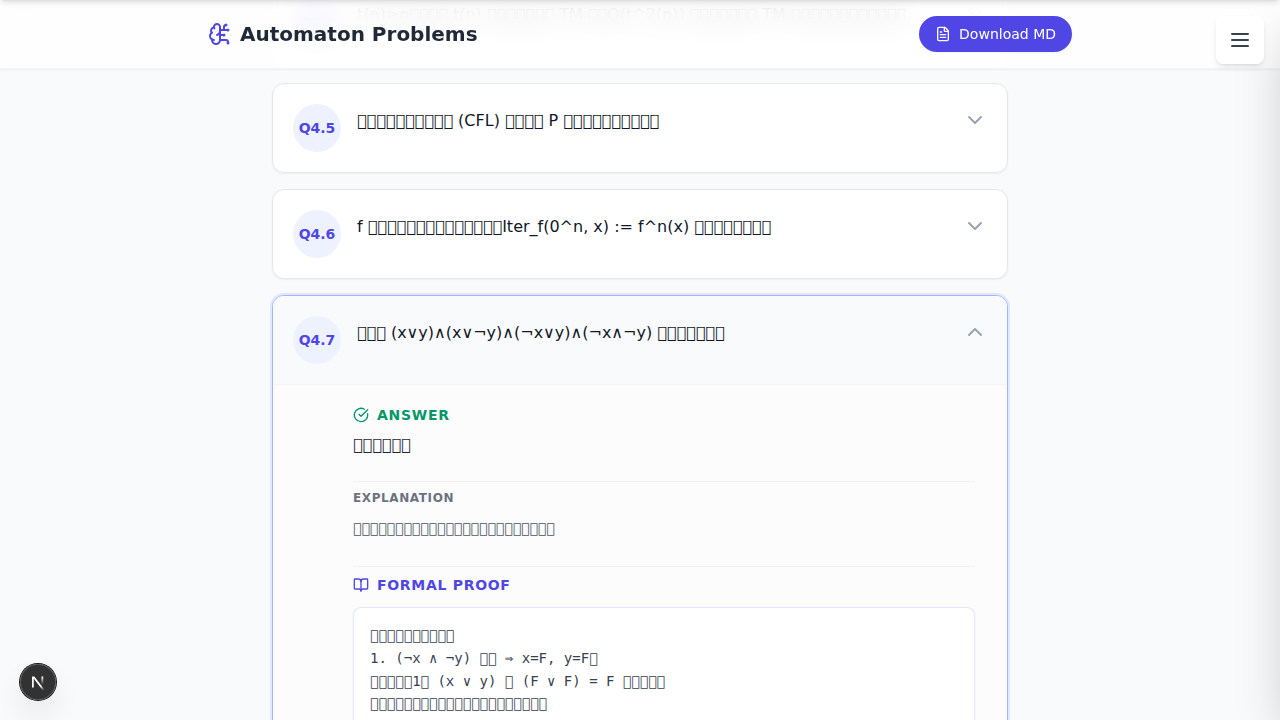
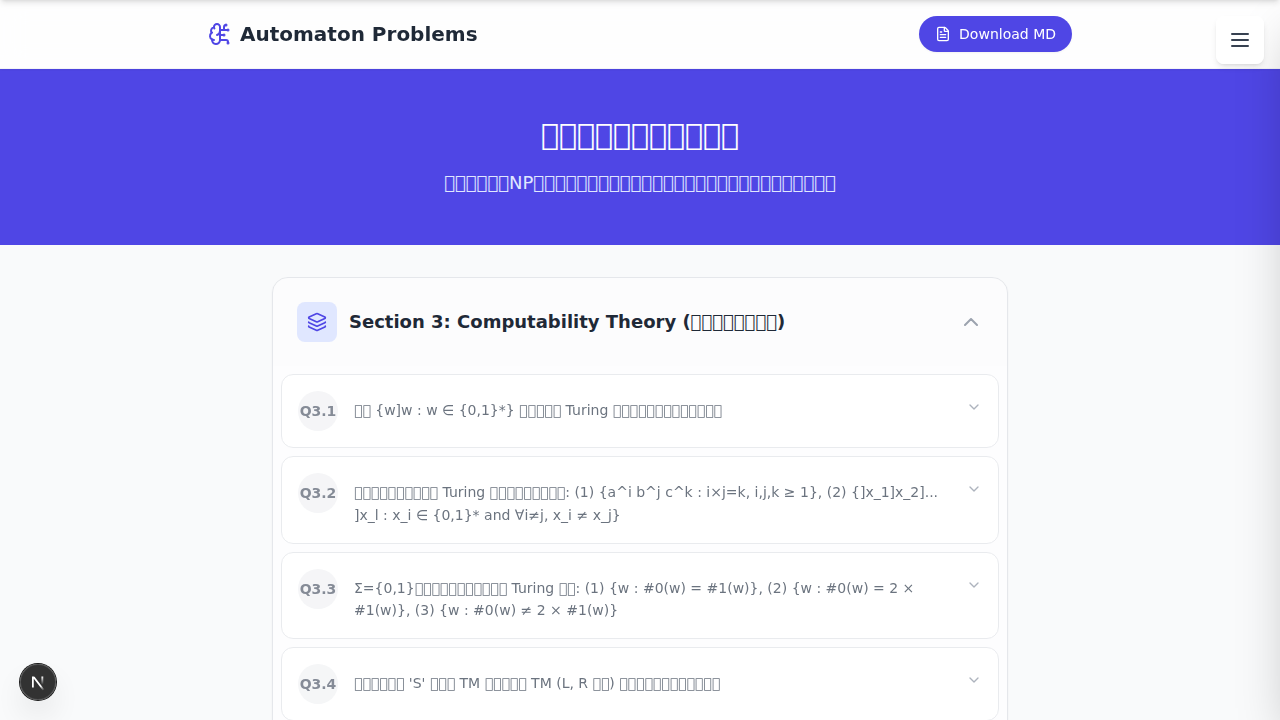
Refactor Automaton page to use section-based toggle groups

diff --git a/app/(public)/automaton/page.tsx b/app/(public)/automaton/page.tsx
@@ -1,17 +1,37 @@
 "use client";
 
 import { useState } from "react";
-import { problems } from "./data";
+import { problems, Problem } from "./data";
 import { motion, AnimatePresence } from "framer-motion";
-import { ChevronDown, ChevronUp, FileText, CheckCircle, BrainCircuit, BookOpen } from "lucide-react";
-import Link from "next/link";
+import { ChevronDown, ChevronUp, FileText, CheckCircle, BrainCircuit, BookOpen, Layers } from "lucide-react";
+
+// Define sections map
+const SECTIONS: Record<string, string> = {
+  "3": "Section 3: Computability Theory (計算可能性の理論)",
+  "4": "Section 4: Complexity Theory (計算複雑性の理論)"
+};
 
 export default function AutomatonPage() {
-  const [openId, setOpenId] = useState<string | null>(null);
+  const [openSectionId, setOpenSectionId] = useState<string | null>("3"); // Default open first section
+  const [openProblemId, setOpenProblemId] = useState<string | null>(null);
+
+  const toggleSection = (id: string) => {
+    setOpenSectionId(openSectionId === id ? null : id);
+  };
 
   const toggleProblem = (id: string) => {
-    setOpenId(openId === id ? null : id);
+    setOpenProblemId(openProblemId === id ? null : id);
   };
+
+  // Group problems by section (first char of ID)
+  const groupedProblems = problems.reduce((acc, problem) => {
+    const sectionKey = problem.id.split(".")[0];
+    if (!acc[sectionKey]) acc[sectionKey] = [];
+    acc[sectionKey].push(problem);
+    return acc;
+  }, {} as Record<string, Problem[]>);
+
+  const sortedSectionKeys = Object.keys(groupedProblems).sort();
 
   return (
     <div className="min-h-screen bg-gray-50 pb-20">
@@ -43,81 +63,122 @@ export default function AutomatonPage() {
         </div>
       </div>
 
-      {/* Problem List */}
-      <main className="max-w-3xl mx-auto px-4 space-y-4">
-        {problems.map((problem, index) => (
-          <motion.div
-            key={problem.id}
-            initial={{ opacity: 0, y: 20 }}
-            animate={{ opacity: 1, y: 0 }}
-            transition={{ delay: index * 0.05 }}
-            className={`bg-white rounded-xl shadow-sm border ${
-              openId === problem.id ? "border-indigo-300 ring-2 ring-indigo-100" : "border-gray-200"
-            } overflow-hidden`}
-          >
+      {/* Main Content */}
+      <main className="max-w-3xl mx-auto px-4 space-y-6">
+        {sortedSectionKeys.map((sectionKey) => (
+          <div key={sectionKey} className="bg-white rounded-2xl shadow-sm border border-gray-200 overflow-hidden">
+            {/* Section Header */}
             <button
-              onClick={() => toggleProblem(problem.id)}
-              className="w-full flex items-start gap-4 p-5 text-left hover:bg-gray-50 transition-colors"
+              onClick={() => toggleSection(sectionKey)}
+              className="w-full flex items-center justify-between p-6 bg-gray-50/50 hover:bg-gray-100/50 transition-colors"
             >
-              <div className="flex-shrink-0 w-12 h-12 bg-indigo-50 rounded-full flex items-center justify-center text-indigo-600 font-bold text-sm">
-                Q{problem.id}
+              <div className="flex items-center gap-3">
+                <div className="w-10 h-10 rounded-lg bg-indigo-100 text-indigo-600 flex items-center justify-center">
+                  <Layers className="w-5 h-5" />
+                </div>
+                <h2 className="text-lg font-bold text-gray-800">
+                  {SECTIONS[sectionKey] || `Section ${sectionKey}`}
+                </h2>
               </div>
-              <div className="flex-grow pt-1">
-                <h3 className="text-gray-900 font-medium leading-relaxed">
-                  {problem.question}
-                </h3>
-              </div>
-              <div className="flex-shrink-0 pt-1 text-gray-400">
-                {openId === problem.id ? <ChevronUp /> : <ChevronDown />}
+              <div className={`text-gray-400 transition-transform duration-300 ${openSectionId === sectionKey ? "rotate-180" : ""}`}>
+                <ChevronDown className="w-6 h-6" />
               </div>
             </button>
 
+            {/* Section Content (Problem List) */}
             <AnimatePresence>
-              {openId === problem.id && (
+              {openSectionId === sectionKey && (
                 <motion.div
                   initial={{ height: 0, opacity: 0 }}
                   animate={{ height: "auto", opacity: 1 }}
                   exit={{ height: 0, opacity: 0 }}
                   transition={{ duration: 0.3 }}
-                  className="border-t border-gray-100 bg-gray-50/50"
                 >
-                  <div className="p-5 pl-20 pr-8 space-y-6">
-                    {/* Short Answer */}
-                    <div className="space-y-2">
-                      <div className="flex items-center gap-2 text-emerald-600 font-semibold text-sm uppercase tracking-wider">
-                        <CheckCircle className="w-4 h-4" />
-                        Answer
-                      </div>
-                      <p className="text-gray-800 font-medium">{problem.answer}</p>
-                    </div>
+                  <div className="p-2 space-y-2 bg-gray-50/30">
+                    {groupedProblems[sectionKey].map((problem) => (
+                      <div
+                        key={problem.id}
+                        className={`bg-white rounded-xl border transition-all duration-200 ${
+                          openProblemId === problem.id
+                            ? "border-indigo-300 ring-2 ring-indigo-50 shadow-md my-4"
+                            : "border-gray-200 hover:border-indigo-200"
+                        }`}
+                      >
+                        <button
+                          onClick={() => toggleProblem(problem.id)}
+                          className="w-full flex items-start gap-4 p-4 text-left"
+                        >
+                          <div className={`flex-shrink-0 w-10 h-10 rounded-full flex items-center justify-center text-sm font-bold transition-colors ${
+                            openProblemId === problem.id
+                              ? "bg-indigo-600 text-white"
+                              : "bg-gray-100 text-gray-500 group-hover:bg-indigo-50 group-hover:text-indigo-600"
+                          }`}>
+                            Q{problem.id}
+                          </div>
+                          <div className="flex-grow pt-2">
+                            <h3 className={`text-sm font-medium leading-relaxed transition-colors ${
+                               openProblemId === problem.id ? "text-gray-900" : "text-gray-600"
+                            }`}>
+                              {problem.question}
+                            </h3>
+                          </div>
+                          <div className="flex-shrink-0 pt-2 text-gray-400">
+                             {openProblemId === problem.id ? <ChevronUp className="w-4 h-4" /> : <ChevronDown className="w-4 h-4" />}
+                          </div>
+                        </button>
 
-                    {/* Casual Explanation */}
-                    <div className="space-y-2 pt-2 border-t border-gray-200/60">
-                      <p className="text-xs text-gray-500 font-semibold uppercase tracking-wider">
-                        Explanation
-                      </p>
-                      <p className="text-gray-600 leading-7 text-sm">
-                        {problem.explanation}
-                      </p>
-                    </div>
+                        <AnimatePresence>
+                          {openProblemId === problem.id && (
+                            <motion.div
+                              initial={{ height: 0, opacity: 0 }}
+                              animate={{ height: "auto", opacity: 1 }}
+                              exit={{ height: 0, opacity: 0 }}
+                              transition={{ duration: 0.2 }}
+                              className="border-t border-gray-100 bg-gray-50/50"
+                            >
+                              <div className="p-5 pl-16 pr-6 space-y-6 text-sm">
+                                {/* Short Answer */}
+                                <div className="space-y-2">
+                                  <div className="flex items-center gap-2 text-emerald-600 font-semibold uppercase tracking-wider text-xs">
+                                    <CheckCircle className="w-3.5 h-3.5" />
+                                    Answer
+                                  </div>
+                                  <p className="text-gray-800 font-medium">{problem.answer}</p>
+                                </div>
 
-                    {/* Formal Proof */}
-                    <div className="space-y-3 pt-2 border-t border-gray-200/60">
-                      <div className="flex items-center gap-2 text-indigo-600 font-semibold text-sm uppercase tracking-wider">
-                        <BookOpen className="w-4 h-4" />
-                        Formal Proof
+                                {/* Casual Explanation */}
+                                <div className="space-y-2 pt-2 border-t border-gray-200/60">
+                                  <p className="text-xs text-gray-500 font-semibold uppercase tracking-wider">
+                                    Explanation
+                                  </p>
+                                  <p className="text-gray-600 leading-relaxed">
+                                    {problem.explanation}
+                                  </p>
+                                </div>
+
+                                {/* Formal Proof */}
+                                <div className="space-y-3 pt-2 border-t border-gray-200/60">
+                                  <div className="flex items-center gap-2 text-indigo-600 font-semibold uppercase tracking-wider text-xs">
+                                    <BookOpen className="w-3.5 h-3.5" />
+                                    Formal Proof
+                                  </div>
+                                  <div className="bg-white p-4 rounded-lg border border-indigo-100 shadow-sm overflow-x-auto">
+                                    <pre className="whitespace-pre-wrap text-xs text-gray-700 font-mono leading-relaxed">
+                                      {problem.formalProof}
+                                    </pre>
+                                  </div>
+                                </div>
+                              </div>
+                            </motion.div>
+                          )}
+                        </AnimatePresence>
                       </div>
-                      <div className="bg-white p-4 rounded-lg border border-indigo-100 shadow-sm">
-                        <pre className="whitespace-pre-wrap text-sm text-gray-700 font-mono leading-relaxed overflow-x-auto">
-                          {problem.formalProof}
-                        </pre>
-                      </div>
-                    </div>
+                    ))}
                   </div>
                 </motion.div>
               )}
             </AnimatePresence>
-          </motion.div>
+          </div>
         ))}
       </main>
 

diff --git a/verification/verify_automaton_grouped.py b/verification/verify_automaton_grouped.py
@@ -1,0 +1,88 @@
+
+from playwright.sync_api import Page, expect, sync_playwright
+import time
+
+def verify_automaton_page(page: Page):
+    # Enable console log capture
+    page.on("console", lambda msg: print(f"Browser Console: {msg.text}"))
+
+    # 1. Arrange: Go to the Automaton page.
+    print("Navigating to /automaton...")
+    page.goto("http://localhost:3000/automaton")
+
+    # Wait for the page to load content
+    print("Waiting for content to load...")
+    try:
+        page.wait_for_selector("text=計算理論とオートマトン", timeout=10000)
+    except Exception as e:
+        print("Timeout waiting for header. Checking page content...")
+        print(page.content())
+        raise e
+
+    # 2. Assert: Check for Section Headers
+    print("Verifying Section 3 Header...")
+    section3_header = page.get_by_role("button", name="Section 3: Computability Theory")
+    expect(section3_header).to_be_visible()
+
+    # Section 3 is open by default in my code (openSectionId="3")
+    # So questions should be visible.
+
+    print("Verifying Question 3.1...")
+    # Use exact match to avoid matching 3.10, 3.11, etc.
+    q31 = page.get_by_text("Q3.1", exact=True)
+    expect(q31).to_be_visible()
+
+    # Section 4 should be closed or visible as a header
+    print("Verifying Section 4 Header...")
+    section4_header = page.get_by_role("button", name="Section 4: Complexity Theory")
+    expect(section4_header).to_be_visible()
+
+    # 3. Act: Open Section 4
+    print("Opening Section 4...")
+    section4_header.click()
+    time.sleep(0.5) # Wait for animation
+
+    print("Verifying Question 4.3...")
+    q43 = page.get_by_text("Q4.3", exact=True)
+    expect(q43).to_be_visible()
+
+    # 4. Act: Open Question 4.7
+    print("Clicking Q4.7...")
+    # Looking for a button that starts with Q4.7 or contains it uniquely
+    # Using text locator with some context usually safer
+    q47_button = page.locator("button").filter(has_text="Q4.7").first
+    q47_button.click()
+
+    # 5. Assert: Check answer
+    print("Waiting for answer to appear...")
+    answer_text = page.get_by_text("充足不可能")
+    expect(answer_text).to_be_visible()
+
+    # Verify Formal Proof section exists
+    print("Verifying Formal Proof section...")
+    formal_proof_label = page.get_by_text("Formal Proof")
+    expect(formal_proof_label).to_be_visible()
+
+    # Wait for animation
+    time.sleep(1.0)
+
+    # 6. Screenshot
+    print("Taking expanded screenshot...")
+    page.screenshot(path="verification/automaton_grouped.png")
+
+if __name__ == "__main__":
+    with sync_playwright() as p:
+        print("Launching browser...")
+        browser = p.chromium.launch(headless=True)
+        page = browser.new_page()
+        try:
+            verify_automaton_page(page)
+            print("Verification script completed successfully.")
+        except Exception as e:
+            print(f"Verification failed: {e}")
+            try:
+                page.screenshot(path="verification/failure.png")
+            except:
+                pass
+        finally:
+            browser.close()
